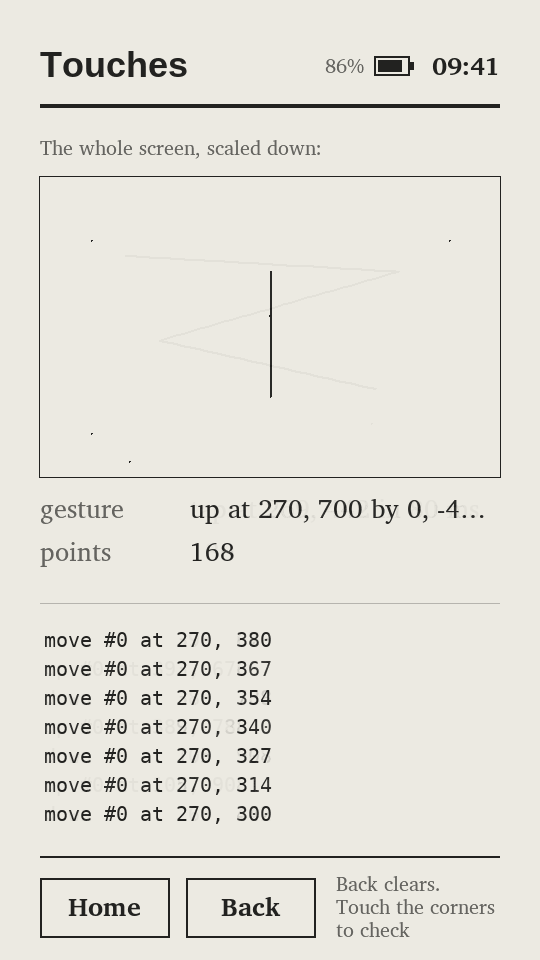
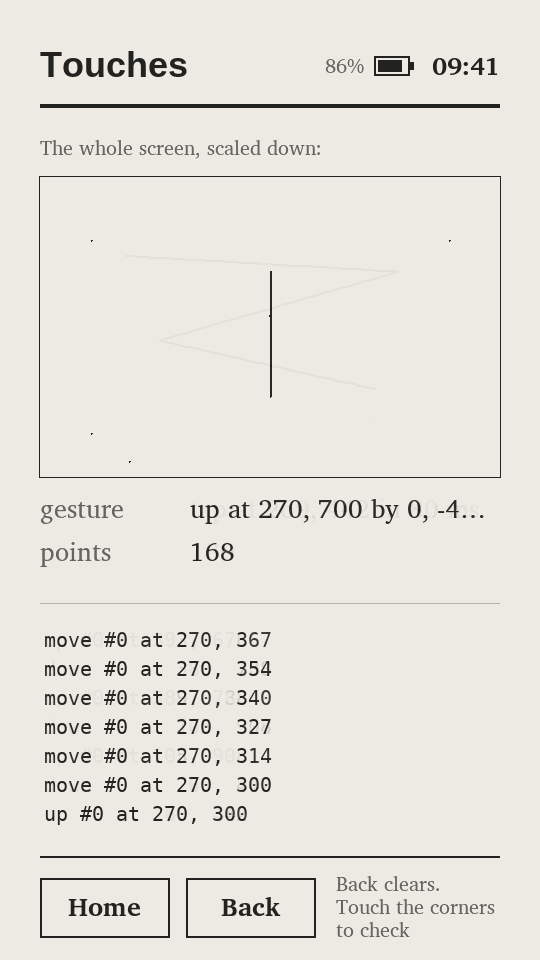
picocalc-os: touches keeps the newest seven events; real touches verified on the interrupt line (PAPERS3-IDLE)
The event list had room for seven lines but kept eight, so the newest (often the lift) was hidden. On
the device, real touches arrived through GPIO48 with correct coordinates; out-s3/touch-test-2 holds the
captures and the profile. Re-baselined 33-touches.

Changed region(s): [[0.3259, 0.6562, 0.5037, 0.875], [0.0889, 0.8438, 0.2963, 0.875]]

diff --git a/picocalc-os/js-papers3/apps/touches.js b/picocalc-os/js-papers3/apps/touches.js
@@ -7,7 +7,7 @@ app("touches")
   .on("touch", function (s, t) {
     s.n++;
     s.events.push(t.phase + " #" + t.id + " at " + t.x + ", " + t.y);
-    if (s.events.length > 8) s.events.shift();
+    if (s.events.length > 7) s.events.shift();   // the newest seven: as many lines as the panel has room for
     if (t.phase === "down") { s.strokes.push([]); if (s.strokes.length > 6) s.strokes.shift(); }
     var st = s.strokes[s.strokes.length - 1];
     if (st && st.length < 200) st.push([Math.round(t.x * 460 / 540), Math.round(t.y * 300 / 960)]);

diff --git a/ttmp/2026/10/26/PAPERS3-IDLE--faster-turns-interrupt-driven-input-and-light-sleep-on-the-papers3/log/01-diary.md b/ttmp/2026/10/26/PAPERS3-IDLE--faster-turns-interrupt-driven-input-and-light-sleep-on-the-papers3/log/01-diary.md
@@ -545,3 +545,86 @@ prof over 113.0 s: the kernel task woke 21 times (0.2/s) and was blocked 100% of
 ```
 
 - **Next:** repeat with someone at the panel (Touches app: corners, a drag), then P4.
+
+## Step 6: Real touches on the interrupt line
+
+Someone at the panel touched the Touches app. Every touch arrived through the GT911's interrupt line,
+the coordinates match the screen with no transform, and the driver used no CPU outside the touches.
+Two apparent problems in the screenshots were not input bugs. The "missing" lift was the newest event
+hidden below the event list, and the absent gestures came from touches inside the app's ink pad, which
+by design never become gestures. The list now keeps the newest seven events.
+
+### Prompt Context
+
+**User prompt (verbatim):** "ok", then "good" (after touching the panel), then "y was good i touched that smaller screen i think"
+**Assistant interpretation:** The user touched the Touches app during the capture window; they touched the corners of the drawn pad, not of the screen.
+**Inferred user intent:** Confirm that real touch input works with the interrupt-driven driver.
+**Commit (code):** see the commit after this entry: "touches: keep the newest seven events"
+
+### What I did
+
+- A 100 s capture window (`out-s3/touch-test-2/`) with the Touches app cleared (`send touches back`),
+  screenshots at 30, 60 and 95 s, and a `prof` at the end.
+- A 10 s idle `prof` afterwards, to rule out a stuck finger keeping the 40 ms lift check alive.
+- Read the compositor's `gesture()`: a touch that starts inside `inkArea` is forwarded as ink and
+  returns before gesture recognition.
+- `apps/touches.js`: keep 7 events (the lines that fit) instead of 8. Re-baselined `33-touches.png`,
+  which now ends with `up #0 at 270, 300` where the old one hid it.
+
+### Why
+
+- The screenshots ended with `down #0 at 255, 376` and showed "gesture -". Either could have been a
+  missed lift report or a wrong transform; both had to be ruled out before calling the interrupt path
+  good.
+
+### What worked
+
+- Over 94 s with touches (`prof`):
+  - touch: 1084 segments, 2516 ms, 2.32 ms/segment, 136 steps/segment, 47 collections;
+  - Touches app: 74 segments (render 298.6 ms);
+  - compositor: 120 segments, 14.8 ms each (ink forwarding and paints);
+  - lane 5.2% over the whole window, which includes idle stretches.
+- Idle afterwards: `the kernel task woke 1 times (0.1/s) ... worlds ran 0 ms (0.0%)`. No stuck finger.
+- Mapping. Measured from the scaled pad:
+  - dots at about (65–486, 202–466): the drawn box (x 40–500, y 176–476) with about 20 px inset;
+  - a hold near the box's centre (`255, 376`);
+  - a left-to-right drag at y ≈ 345.
+
+  The user confirmed that y was right. `MAP` stays the identity.
+
+### What didn't work
+
+- My first reading of the screenshots: corners squeezed into a band, and a missing `up`. Both were
+  artefacts:
+  - the user had touched the pad's corners;
+  - the eighth event did not fit in the list.
+
+### What I learned
+
+- The Touches app is a poor orientation test on its own. Its pad swallows gestures, and its corners
+  are not the screen's. A home-screen tile tap is the unambiguous check.
+- Real touches cost more than idle polls did per segment: 2.32 ms against 1.46 ms. The 41-byte read is
+  decoded and the five points are sliced. There are far fewer of them, and none while nobody touches.
+
+### What was tricky to build
+
+- Nothing new. The diagnosis needed the compositor's ink rule and the app's line budget.
+
+### What warrants a second pair of eyes
+
+- Whether the GT911 holds INT or pulses it is still not settled. Either way works: the lift check
+  covers pulses, and no stuck finger was seen.
+
+### What should be done in the future
+
+- P4: light sleep. The kernel task is blocked 100% of the time when idle.
+
+### Code review instructions
+
+- `js-papers3/apps/touches.js` (the event limit). Validate with `make BOARD=papers3 shots`, which
+  reproduces `out-papers3/33-touches.png`.
+
+### Technical details
+
+- Touch window commands:
+  `s3cap.py --no-reset -s 100 -c "1 send touches back" -c "2 prof reset" -c "30 shot" -c "60 shot" -c "95 shot" -c "96 prof"`.
